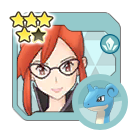
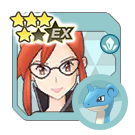
Add v2.39.0

Changed region(s): [[0.2963, 0.1185, 0.5926, 0.3556], [0.3556, 0.0889, 0.3852, 0.1185], [0.2963, 0.0889, 0.3259, 0.1185]]

diff --git a/js/syncpairs.js b/js/syncpairs.js
@@ -645,7 +645,8 @@ export const SYNCPAIRS = [
 		"syncPairRegion": "Kanto",
 		"images": [
 			"Sync Pairs/0A_KANTO/0A_KANTO_0C-01_Lorelei.png",
-			"Sync Pairs/5Star/0A_KANTO_0C-01_Lorelei_5Star.png"
+			"Sync Pairs/5Star/0A_KANTO_0C-01_Lorelei_5Star.png",
+			"Sync Pairs/0A_KANTO/0A_KANTO_0C-01_Lorelei_EX.png"
 		],
 		"themes": [
 			"Ice",
@@ -2466,6 +2467,42 @@ export const SYNCPAIRS = [
 		]
 	},
 	{
+		"dexNumber": "039",
+		"trainerName": "Rosa",
+		"trainerAlt": "Champion",
+		"pokemonNumber": "0648",
+		"pokemonName": "Meloetta",
+		"pokemonGender": "",
+		"pokemonForm": ["Other Form"],
+		"pokemonType": "Psychic",
+		"pokemonWeak": "Bug",
+		"syncPairRole": "Support",
+		"syncPairRoleEX": "Sprint",
+		"syncPairRarity": "5",
+		"releaseDate": "2023-12-25",
+		"syncPairAcquisition": "Master Fair Scout",
+		"syncPairRegion": "Unova",
+		"images": [
+			"Sync Pairs/0E_UNOVA/Rosa_0648.png",
+			"Sync Pairs/0E_UNOVA/Rosa_0648_EX.png"
+		],
+		"themes": [
+			"Psychic",
+			"Unova",
+			"Main Character",
+			"Champion",
+			"Unova Adventurer"
+		],
+		"tags": [
+			"Mythical",
+			"Buddy Move",
+			"Limited",
+			"Multiple Units",
+			"isWoman",
+			"Rebuff"
+		]
+	},
+	{
 		"dexNumber": "040",
 		"trainerName": "Clay",
 		"trainerAlt": "",
@@ -2663,6 +2700,7 @@ export const SYNCPAIRS = [
 		],
 		"tags": [
 			"Multiple Units",
+			"Multiple Pokemon",
 			"isWoman"
 		]
 	},
@@ -3562,6 +3600,43 @@ export const SYNCPAIRS = [
 			"Artistic"
 		],
 		"tags": [
+			"Multiple Units",
+			"isWoman"
+		]
+	},
+	{
+		"dexNumber": "060",
+		"trainerName": "Viola",
+		"trainerAlt": "Holiday 2023",
+		"pokemonNumber": "0666",
+		"pokemonName": "Vivillon",
+		"pokemonGender": "♀",
+		"pokemonForm": ["Other Form"],
+		"pokemonType": "Bug",
+		"pokemonWeak": "Rock",
+		"syncPairRole": "Field",
+		"syncPairRoleEX": "Tech",
+		"syncPairRarity": "5",
+		"releaseDate": "2023-12-12",
+		"syncPairAcquisition": "Seasonal Scout",
+		"syncPairRegion": "Kalos",
+		"images": [
+			"Sync Pairs/0Y_SEASONALS/Viola_0666.png",
+			"Sync Pairs/0Y_SEASONALS/Viola_0666_EX.png"
+		],
+		"themes": [
+			"Bug",
+			"Kalos",
+			"Gym Leader",
+			"Seasonal Outfit",
+			"Artistic"
+		],
+		"tags": [
+			"Holiday",
+			"Buddy Move",
+			"Limited",
+			"Wish Zone",
+			"Multiple Units",
 			"isWoman"
 		]
 	},
@@ -5637,7 +5712,9 @@ export const SYNCPAIRS = [
 			"isMan",
 			"ZMove",
 			"Song Key",
-			"Multiple Pokemon"
+			"Multiple Pokemon",
+			"Grid3",
+			"GridExpansion"
 		]
 	},
 	{
@@ -6853,6 +6930,39 @@ export const SYNCPAIRS = [
 			"Limited",
 			"Multiple Units",
 			"Holiday"
+		]
+	},
+	{
+		"dexNumber": "093",
+		"trainerName": "Jasmine",
+		"trainerAlt": "",
+		"pokemonNumber": "0081",
+		"pokemonName": "Magnemite",
+		"pokemonGender": "",
+		"pokemonForm": [],
+		"pokemonType": "Steel",
+		"pokemonWeak": "Ground",
+		"syncPairRole": "Support",
+		"syncPairRoleEX": "",
+		"syncPairRarity": "4",
+		"releaseDate": "2023-12-01",
+		"syncPairAcquisition": "Trainer Lodge Exchange",
+		"syncPairRegion": "Johto",
+		"images": [
+			"Sync Pairs/0B_JOHTO/Jasmine_0081.png",
+			"Sync Pairs/5Star/Jasmine_0081_5Star.png",
+			"Sync Pairs/0B_JOHTO/Jasmine_0081_EX.png"
+		],
+		"themes": [
+			"Steel",
+			"Johto",
+			"Gym Leader",
+			"Pokéathlete",
+			"Contest Lover"
+		],
+		"tags": [
+			"Multiple Units",
+			"isWoman"
 		]
 	},
 	{
@@ -8160,6 +8270,44 @@ export const SYNCPAIRS = [
 			"Battle Partner"
 		],
 		"tags": [
+			"isMan",
+			"Multiple Units"
+		]
+	},
+	{
+		"dexNumber": "109",
+		"trainerName": "Nate",
+		"trainerAlt": "Champion",
+		"pokemonNumber": "0612",
+		"pokemonName": "Haxorus",
+		"pokemonGender": "♂",
+		"pokemonForm": [],
+		"pokemonType": "Dragon",
+		"pokemonWeak": "Fairy",
+		"syncPairRole": "Strike (Physical)",
+		"syncPairRoleEX": "Field",
+		"syncPairRarity": "5",
+		"releaseDate": "2023-11-30",
+		"syncPairAcquisition": "Master Fair Scout",
+		"syncPairRegion": "Unova",
+		"images": [
+			"Sync Pairs/0E_UNOVA/Nate_0612.png",
+			"Sync Pairs/0E_UNOVA/Nate_0612_EX.png"
+		],
+		"themes": [
+			"Dragon",
+			"Unova",
+			"Main Character",
+			"Champion",
+			"Unova Adventurer"
+		],
+		"tags": [
+			"Shiny",
+			"Buddy Move",
+			"Limited",
+			"Region Circle",
+			"Multiple Units",
+			"Multiple Pokemon",
 			"isMan"
 		]
 	},
@@ -8990,6 +9138,41 @@ export const SYNCPAIRS = [
 		"tags": [
 			"Multiple Units",
 			"isMan"
+		]
+	},
+	{
+		"dexNumber": "116",
+		"trainerName": "Professor Sycamore",
+		"trainerAlt": "Holiday 2023",
+		"pokemonNumber": "0673",
+		"pokemonName": "Gogoat",
+		"pokemonGender": "♂",
+		"pokemonForm": [],
+		"pokemonType": "Grass",
+		"pokemonWeak": "Fire",
+		"syncPairRole": "Support",
+		"syncPairRoleEX": "Strike (Physical)",
+		"syncPairRarity": "5",
+		"releaseDate": "2023-12-14",
+		"syncPairAcquisition": "Seasonal Scout",
+		"syncPairRegion": "Kalos",
+		"images": [
+			"Sync Pairs/0Y_SEASONALS/Sycamore_0673.png",
+			"Sync Pairs/0Y_SEASONALS/Sycamore_0673_EX.png"
+		],
+		"themes": [
+			"Grass",
+			"Kalos",
+			"Seasonal Outfit",
+			"Knowledgeable",
+			"Researcher"
+		],
+		"tags": [
+			"Holiday",
+			"Limited",
+			"Multiple Units",
+			"isMan",
+			"Rebuff"
 		]
 	},
 	{
@@ -12612,6 +12795,7 @@ const P = {
 		"Weather",
 		"Terrain",
 		"Wish Zone",
+		"Region Circle",
 		"Multiple Units",
 		"Multiple Pokemon",
 		"isMan",
@@ -12625,4 +12809,4 @@ const P = {
 }
 
 
-export const VERSION = "v2.38.0";
+export const VERSION = "v2.39.0";

diff --git a/index.html b/index.html
@@ -329,6 +329,7 @@
 						<button type="button" class="btn" value='Weather'><img src="images/icon_weather.png">Weather</button>
 						<button type="button" class="btn" value='Terrain'><img src="images/icon_terrain.png">Terrain</button>
 						<button type="button" class="btn" value='Wish Zone'><img src="images/icon_zone.png">Zone</button>
+						<button type="button" class="btn" value='Region Circle'><img src="images/icon_circle.png">Circle</button>
 						<button type="button" class="btn" value='Multiple Units'><img src="images/icon_alt.png">Alt (Trainer)</button>
 						<button type="button" class="btn" value='Multiple Pokemon'>Alt (Pokémon)</button>
 						<button type="button" class="btn filterGender" value='isMan'><img src="images/icon_male.png">Man</button>

diff --git a/js/news.js b/js/news.js
@@ -1,5 +1,9 @@
 export const NEWS = [
 	{
+		"date": "2023-11-28",
+		"info" : "Add v2.39.0"
+	},
+	{
 		"date": "2023-10-27",
 		"info" : "Add v2.38.0"
 	},
